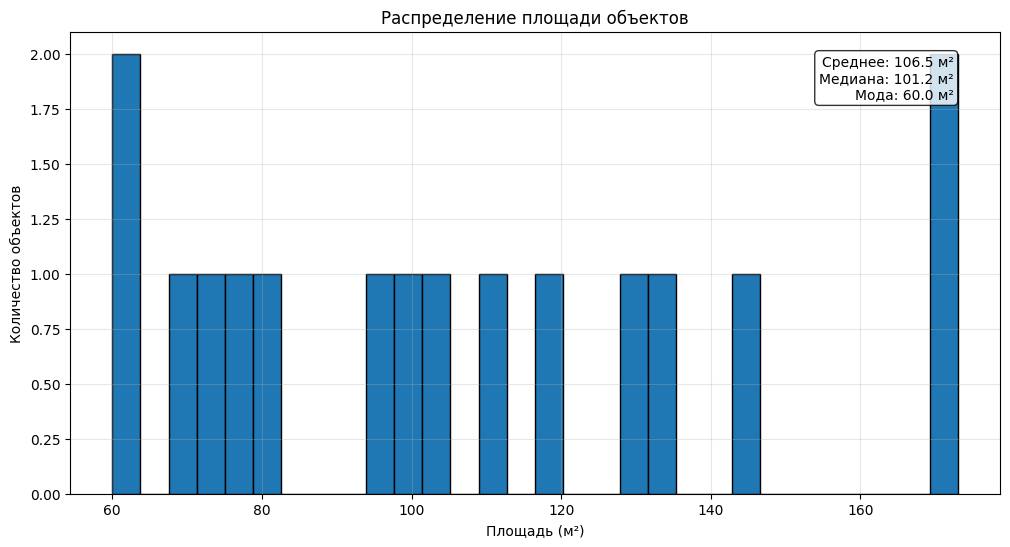
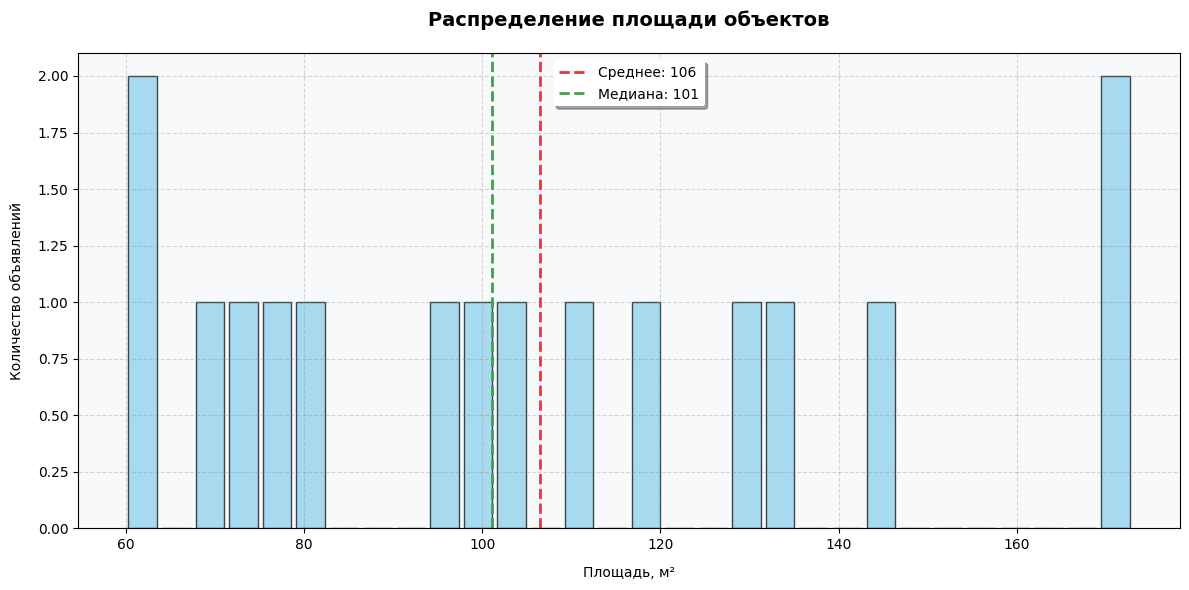
area distribution gpaphics fixed

Changed region(s): [[0.0, 0.0, 1.0, 0.9945], [0.399, 0.2797, 0.4604, 0.3729]]

diff --git a/index.ts b/index.ts
@@ -30,10 +30,168 @@ async function chat(
 
   const userMessage = `
   Analyze the distribution of ${analysisParams.parameter} in the provided real estate data and create a histogram.
-  If possible, add basic statistics (mean, median, mode).
-  Use ${analysisParams.bins || 30} bins for the histogram.
-  Title the graph "${analysisParams.title || `Distribution of ${analysisParams.parameter}`}".
-  Data: ${JSON.stringify(data)}
+  
+  Follow these requirements:
+  1. Clean the data first:
+     - Remove any outliers (use IQR method)
+     - Convert string prices to numbers if needed
+     - Handle missing values
+  
+  2. Create a histogram with these specifications:
+     - Use ${analysisParams.bins || 30} bins
+     - Add proper labels in Russian
+     - Format numbers manually using the function below
+     - Add grid for better readability
+     - Use a pleasant color scheme (e.g., 'skyblue')
+  
+  Here's the code to use:
+  
+  import matplotlib.pyplot as plt
+  import numpy as np
+  import pandas as pd
+  import re
+  
+  # Create DataFrame from the data
+  df = pd.DataFrame(data)
+  
+  # Print raw data for debugging
+  print("\\nDebug: Raw data sample:")
+  print(df.head())
+  print("\\nColumns available:", df.columns.tolist())
+  
+  # Function to extract numeric value from string
+  def extract_number(x):
+      if pd.isna(x):
+          return None
+      if isinstance(x, (int, float)):
+          return float(x)
+      # Extract numbers from string, handling both comma and dot
+      matches = re.findall(r'\\d+(?:[,.]\\d+)?', str(x))
+      if matches:
+          # Take the first match and convert to float
+          result = float(matches[0].replace(',', '.'))
+          print(f"Debug: Extracted {result} from {x}")
+          return result
+      print(f"Debug: Could not extract number from {x}")
+      return None
+  
+  # Process data based on parameter type
+  if '${analysisParams.parameter}' == 'area':
+      print("\\nDebug: Processing area data...")
+      # First try to get area from dedicated column if exists
+      if 'area' in df.columns:
+          print("Debug: Using 'area' column")
+          data_to_plot = df['area'].apply(extract_number)
+      else:
+          print("Debug: Extracting area from titles...")
+          # Print some title examples
+          print("\\nDebug: Title examples:")
+          print(df['title'].head())
+          
+          # Extract area with more detailed debugging
+          def extract_area_from_title(title):
+              match = re.search(r'(\\d+(?:[,.]\\d+)?)\\s*м²', str(title))
+              if match:
+                  area_str = match.group(1)
+                  area = float(area_str.replace(',', '.'))
+                  print(f"Debug: Extracted area {area} from title: {title}")
+                  return area
+              print(f"Debug: No area found in title: {title}")
+              return None
+          
+          data_to_plot = df['title'].apply(extract_area_from_title)
+      
+      print(f"\\nDebug: Found {len(data_to_plot.dropna())} valid area values")
+      print("Debug: Area values sample:", data_to_plot.dropna().head().tolist())
+  else:
+      data_to_plot = pd.to_numeric(df['${analysisParams.parameter}'], errors='coerce')
+  
+  # Drop NA values and print statistics
+  data_to_plot = data_to_plot.dropna()
+  
+  if len(data_to_plot) == 0:
+      raise ValueError(f"No valid data found for parameter: {analysisParams.parameter}")
+  
+  print(f"\\nСтатистика для {analysisParams.parameter}:")
+  print(f"Количество значений: {len(data_to_plot)}")
+  print(f"Среднее: {data_to_plot.mean():.2f}")
+  print(f"Медиана: {data_to_plot.median():.2f}")
+  print(f"Мин.: {data_to_plot.min():.2f}")
+  print(f"Макс.: {data_to_plot.max():.2f}")
+  
+  # Remove outliers using IQR method
+  Q1 = data_to_plot.quantile(0.25)
+  Q3 = data_to_plot.quantile(0.75)
+  IQR = Q3 - Q1
+  lower_bound = Q1 - 1.5 * IQR
+  upper_bound = Q3 + 1.5 * IQR
+  data_to_plot = data_to_plot[(data_to_plot >= lower_bound) & (data_to_plot <= upper_bound)]
+  
+  print(f"\\nПосле удаления выбросов:")
+  print(f"Количество значений: {len(data_to_plot)}")
+  print(f"Среднее: {data_to_plot.mean():.2f}")
+  print(f"Медиана: {data_to_plot.median():.2f}")
+  
+  # Set figure size and style
+  plt.style.use('default')  # Using default style instead of seaborn
+  plt.figure(figsize=(12, 6), facecolor='white')
+  
+  # Create histogram with improved style
+  n, bins, patches = plt.hist(data_to_plot, bins=${analysisParams.bins || 30}, 
+                            color='#2196F3', edgecolor='black', alpha=0.7,
+                            rwidth=0.85)  # Slightly narrower bars
+  
+  # Customize plot appearance
+  ax = plt.gca()
+  ax.set_facecolor('#f8f9fa')  # Light gray background
+  
+  # Format axis labels
+  def format_axis_label(x, p):
+      if x >= 1000000:
+          return f"{x/1000000:.1f}M{'₽' if ${analysisParams.parameter === 'price'} else ''}"
+      elif x >= 1000:
+          return f"{x/1000:.0f}K{'₽' if ${analysisParams.parameter === 'price'} else ''}"
+      return f"{x:.0f}{'₽' if ${analysisParams.parameter === 'price'} else ''}"
+  
+  plt.gca().xaxis.set_major_formatter(plt.FuncFormatter(format_axis_label))
+  
+  # Rotate labels if needed
+  plt.xticks(rotation=45)
+  
+  # Add grid with custom style
+  plt.grid(True, alpha=0.3, linestyle='--', color='gray')
+  
+  # Calculate and add statistics
+  mean_val = data_to_plot.mean()
+  median_val = data_to_plot.median()
+  
+  # Add mean and median lines with improved style
+  plt.axvline(mean_val, color='#e53935', linestyle='dashed', linewidth=2, 
+              label=f'Среднее: {format_axis_label(mean_val, None)}')
+  plt.axvline(median_val, color='#43a047', linestyle='dashed', linewidth=2, 
+              label=f'Медиана: {format_axis_label(median_val, None)}')
+  
+  # Improve title and labels
+  plt.title("${analysisParams.title || `Распределение ${analysisParams.parameter}`}",
+           pad=20, fontsize=14, fontweight='bold')
+  
+  plt.xlabel("${analysisParams.parameter === 'price' ? 'Цена, ₽' : 
+    analysisParams.parameter === 'area' ? 'Площадь, м²' : 
+    analysisParams.parameter === 'rooms' ? 'Количество комнат' : 
+    analysisParams.parameter === 'seller_rating' ? 'Рейтинг продавца' : 
+    analysisParams.parameter}",
+    labelpad=10)
+  
+  plt.ylabel("Количество объявлений", labelpad=10)
+  
+  # Improve legend
+  plt.legend(frameon=True, facecolor='white', edgecolor='none',
+            shadow=True, fontsize=10)
+  
+  # Adjust layout
+  plt.tight_layout()
+  
+  Here's the data: ${JSON.stringify(data)}
   `
 
   const msg = await anthropic.messages.create({

diff --git a/scraping.ts b/scraping.ts
@@ -96,14 +96,61 @@ export async function scrapeAvito() {
         .array(
           z.object({
             title: z.string(),
-            price: z.number(),
+            price: z.preprocess(
+              // Конвертируем строку цены в число
+              (val) => {
+                if (typeof val === 'number') return val;
+                if (typeof val === 'string') {
+                  // Удаляем все нечисловые символы кроме точки
+                  return Number(val.replace(/[^0-9.]/g, ''));
+                }
+                return null;
+              },
+              z.number()
+            ),
             location: z.string(),
-            area: z.number().optional(),
-            rooms: z.number().optional(),
+            area: z.preprocess(
+              (val) => {
+                if (typeof val === 'number') return val;
+                if (typeof val === 'string') {
+                  return Number(val.replace(/[^0-9.]/g, ''));
+                }
+                return null;
+              },
+              z.number().optional()
+            ),
+            rooms: z.preprocess(
+              (val) => {
+                if (typeof val === 'number') return val;
+                if (typeof val === 'string') {
+                  return Number(val.replace(/[^0-9]/g, ''));
+                }
+                return null;
+              },
+              z.number().optional()
+            ),
             floor: z.string().optional(),
             description: z.string().optional(),
-            seller_rating: z.number().optional(),
-            views: z.number().optional(),
+            seller_rating: z.preprocess(
+              (val) => {
+                if (typeof val === 'number') return val;
+                if (typeof val === 'string') {
+                  return Number(val.replace(/[^0-9.]/g, ''));
+                }
+                return null;
+              },
+              z.number().optional()
+            ),
+            views: z.preprocess(
+              (val) => {
+                if (typeof val === 'number') return val;
+                if (typeof val === 'string') {
+                  return Number(val.replace(/[^0-9]/g, ''));
+                }
+                return null;
+              },
+              z.number().optional()
+            ),
           })
         )
         .describe('Объявления недвижимости на Avito'),
@@ -143,7 +190,7 @@ export async function scrapeAvito() {
         const pageListings = await scrapeListings(paginationLinks[i], i);
         allListings.push(...pageListings);
         
-        // Сохр��няем промежуточные результаты
+        // Сохраняем промежуточные результаты
         fs.writeFileSync(
           'avito_listings.json',
           JSON.stringify(allListings, null, 2)
